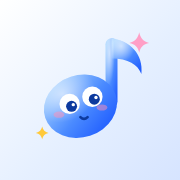
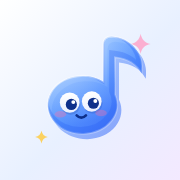
Redraw mascots as light 2.5D glass characters
Translucent gradient bodies with a back depth layer, top glow and a
white glass rim, all in one SVG per character (no image assets). The
note is now a single silhouette, the home group uses smiling faces, and
the app icon matches.

Claude-Session: https://claude.ai/code/session_01NsUf8LjFfeFBEUFhgFzHRm

diff --git a/src/components/Mascots.tsx b/src/components/Mascots.tsx
@@ -7,100 +7,88 @@ import { useId } from "react";
 //  pick   기타 피크 · 노랑 · 쉬움 (신남)
 //  bubble 말풍선 · 보라   · 어려움 (졸림)
 //  heart  하트  · 핑크   · 다시 (뾰로통)
+// 2.5D 유리 질감: 반투명 그라데이션 몸통 + 뒤쪽 두께 + 위쪽 빛 + 흰 테두리. 이미지 파일 없이 SVG 한 장.
 export type MascotKind = "note" | "pick" | "bubble" | "heart";
 
-const PALETTE: Record<MascotKind, { stops: [string, string, string]; ink: string }> = {
-  note: { stops: ["#a8d4ff", "#4b8bff", "#1f5cff"], ink: "#0d3a9e" },
-  pick: { stops: ["#fff0a6", "#ffc93a", "#ffa400"], ink: "#8a4f00" },
-  bubble: { stops: ["#d4c8ff", "#9478ff", "#6a47ff"], ink: "#3a1fa8" },
-  heart: { stops: ["#ffd0e2", "#ff77aa", "#ff3d84"], ink: "#9e1048" },
+const PALETTE: Record<MascotKind, { light: string; mid: string; deep: string; ink: string }> = {
+  note: { light: "#9fd0ff", mid: "#4a8dff", deep: "#2156f5", ink: "#0d2f8a" },
+  pick: { light: "#fff1a3", mid: "#ffcb3d", deep: "#ff9d0a", ink: "#7a4200" },
+  bubble: { light: "#d2c4ff", mid: "#9a7dff", deep: "#6541f5", ink: "#2c1690" },
+  heart: { light: "#ffc8dc", mid: "#ff79ab", deep: "#f23d7e", ink: "#8c0d43" },
 };
 
-const BODY: Record<MascotKind, React.ReactNode> = {
-  note: (
-    <>
-      <rect x="63" y="9" width="10" height="58" rx="5" />
-      <path d="M68 9c15 2 27 13 25 30-3-8-11-13-25-13Z" />
-      <ellipse cx="42" cy="66" rx="31" ry="26" transform="rotate(-18 42 66)" />
-    </>
-  ),
-  pick: <path d="M50 93C42 87 13 54 11 36 9 19 26 9 50 9s41 10 39 27C87 54 58 87 50 93Z" />,
-  bubble: (
-    <path d="M24 14h52c9 0 15 6 15 15v31c0 9-6 15-15 15H46L28 89c-1.5 1-3.5 0-3-2l3-12h-4c-9 0-15-6-15-15V29c0-9 6-15 15-15Z" />
-  ),
-  heart: <path d="M50 88C24 70 8 54 8 35 8 21 19 11 32 11c8 0 14 4 18 10 4-6 10-10 18-10 13 0 24 10 24 24 0 19-16 35-42 53Z" />,
+// 몸통 실루엣 (한 덩어리 path라 테두리·두께를 같은 모양으로 겹칠 수 있다)
+const BODY: Record<MascotKind, string> = {
+  note: "M60 16Q60 9 67 9C83 10 96 23 93 41C89 33 81 28 70 27V59A30 25 0 1 1 60 48Z",
+  pick: "M50 93C42 87 13 54 11 36 9 19 26 9 50 9s41 10 39 27C87 54 58 87 50 93Z",
+  bubble:
+    "M24 14h52c9 0 15 6 15 15v31c0 9-6 15-15 15H46L28 89c-1.5 1-3.5 0-3-2l3-12h-4c-9 0-15-6-15-15V29c0-9 6-15 15-15Z",
+  heart: "M50 88C24 70 8 54 8 35 8 21 19 11 32 11c8 0 14 4 18 10 4-6 10-10 18-10 13 0 24 10 24 24 0 19-16 35-42 53Z",
 };
 
-// 커버처럼 표정 없이 밝게 웃는 얼굴이 필요할 때 쓰는 눈·입 위치
+// 웃는 얼굴(커버용)의 눈·입 자리
 const HAPPY: Record<MascotKind, { eyes: [number, number][]; mouth: [number, number] }> = {
-  note: { eyes: [[33, 64], [52, 58]], mouth: [45, 74] },
+  note: { eyes: [[31, 66], [50, 65]], mouth: [41, 77] },
   pick: { eyes: [[38, 38], [62, 38]], mouth: [50, 55] },
   bubble: { eyes: [[37, 42], [63, 42]], mouth: [50, 57] },
   heart: { eyes: [[37, 43], [63, 43]], mouth: [50, 58] },
 };
 
-function Face({ kind, ink, happy }: { kind: MascotKind; ink: string; happy: boolean }) {
-  const eye = (cx: number, cy: number, r = 8.5) => (
+function Eye({ cx, cy, r = 8.5, ink, id }: { cx: number; cy: number; r?: number; ink: string; id: string }) {
+  return (
     <>
-      <circle cx={cx} cy={cy} r={r} fill="#fff" />
-      <circle cx={cx + 1.6} cy={cy + 2} r={r * 0.54} fill={ink} />
-      <circle cx={cx + 3} cy={cy + 0.6} r={1.4} fill="#fff" />
+      <ellipse cx={cx + 0.8} cy={cy + 1.6} rx={r} ry={r * 1.04} fill={ink} opacity={0.18} />
+      <ellipse cx={cx} cy={cy} rx={r} ry={r * 1.04} fill={`url(#w${id})`} />
+      <circle cx={cx + 1.4} cy={cy + 1.6} r={r * 0.56} fill={ink} />
+      <circle cx={cx + 3.1} cy={cy - 0.4} r={r * 0.2} fill="#fff" />
     </>
   );
-  const blush = (cx: number, cy: number) => (
-    <ellipse cx={cx} cy={cy} rx={4.5} ry={2.6} fill="#ff8fb8" opacity={0.5} />
-  );
-  if (happy) {
+}
+
+function Smile({ x, y, ink, w = 4 }: { x: number; y: number; ink: string; w?: number }) {
+  return <path d={`M${x - w} ${y}q${w} ${w} ${w * 2} 0`} fill="none" stroke={ink} strokeWidth={2.3} strokeLinecap="round" />;
+}
+
+function Blush({ x, y }: { x: number; y: number }) {
+  return <ellipse cx={x} cy={y} rx={5} ry={2.8} fill="#ff6fa5" opacity={0.35} />;
+}
+
+function Face({ kind, happy, id }: { kind: MascotKind; happy: boolean; id: string }) {
+  const { ink } = PALETTE[kind];
+  if (happy || kind === "note") {
     const { eyes, mouth } = HAPPY[kind];
     return (
       <>
         {eyes.map(([x, y]) => (
-          <g key={x}>{eye(x, y)}</g>
+          <Eye key={x} cx={x} cy={y} ink={ink} id={id} />
         ))}
-        <path
-          d={`M${mouth[0] - 4} ${mouth[1]}q4 4 8 0`}
-          fill="none"
-          stroke={ink}
-          strokeWidth={2.4}
-          strokeLinecap="round"
-        />
-        {blush(eyes[0][0] - 8, eyes[0][1] + 10)}
-        {blush(eyes[1][0] + 8, eyes[1][1] + 10)}
+        <Smile x={mouth[0]} y={mouth[1]} ink={ink} />
+        <Blush x={eyes[0][0] - 8} y={eyes[0][1] + 10} />
+        <Blush x={eyes[1][0] + 8} y={eyes[1][1] + 10} />
       </>
     );
   }
   switch (kind) {
-    case "note":
-      return (
-        <>
-          {eye(33, 64)}
-          {eye(52, 58)}
-          <path d="M42 75q3 3 6 0" fill="none" stroke={ink} strokeWidth={2.2} strokeLinecap="round" />
-          {blush(24, 73)}
-          {blush(60, 67)}
-        </>
-      );
     case "pick":
       return (
         <>
-          {eye(38, 39, 9)}
-          <path d="M68 34 57 40l11 6" fill="none" stroke={ink} strokeWidth={3.4} strokeLinecap="round" strokeLinejoin="round" />
-          <ellipse cx={50} cy={57} rx={4.2} ry={3.6} fill="#c35700" />
-          {blush(28, 52)}
-          {blush(72, 52)}
+          <Eye cx={38} cy={38} r={9} ink={ink} id={id} />
+          <path d="M57 41q5-7 10 0" fill="none" stroke={ink} strokeWidth={3} strokeLinecap="round" />
+          <ellipse cx={50} cy={56} rx={4.2} ry={3.6} fill={ink} opacity={0.85} />
+          <Blush x={28} y={51} />
+          <Blush x={72} y={51} />
         </>
       );
     case "bubble":
       return (
         <>
-          {[36, 64].map((cx) => (
+          {[37, 63].map((cx) => (
             <g key={cx}>
-              <circle cx={cx} cy={43} r={10} fill="#fff" />
-              <circle cx={cx + 1} cy={47} r={4.2} fill={ink} />
-              <path d={`M${cx - 10} 43a10 10 0 0 1 20 0Z`} fill="#5b38ea" />
+              <Eye cx={cx} cy={42} r={9.5} ink={ink} id={id} />
+              <path d={`M${cx - 10} 42a10 10 0 0 1 20 0Z`} fill={PALETTE.bubble.deep} opacity={0.92} />
             </g>
           ))}
-          <path d="M43 60q3.5-3 7 0t7 0" fill="none" stroke={ink} strokeWidth={2.2} strokeLinecap="round" />
+          <path d="M43 59q3.5-3 7 0t7 0" fill="none" stroke={ink} strokeWidth={2.2} strokeLinecap="round" />
         </>
       );
     case "heart":
@@ -108,19 +96,22 @@ function Face({ kind, ink, happy }: { kind: MascotKind; ink: string; happy: bool
         <>
           {[28, 54].map((x) => (
             <g key={x}>
-              <path d={`M${x} 42h18a9 9 0 0 1-18 0Z`} fill="#fff" />
-              <circle cx={x + 9.5} cy={45.5} r={3.8} fill={ink} />
+              <path d={`M${x} 41h18a9 9 0 0 1-18 0Z`} fill={`url(#w${id})`} />
+              <circle cx={x + 9.6} cy={44.6} r={3.9} fill={ink} />
+              <circle cx={x + 11} cy={43} r={1.2} fill="#fff" />
             </g>
           ))}
-          <path d="M44 63q6-5 12 0" fill="none" stroke={ink} strokeWidth={2.4} strokeLinecap="round" />
-          {blush(24, 56)}
-          {blush(76, 56)}
+          <path d="M44 63q6-5 12 0" fill="none" stroke={ink} strokeWidth={2.3} strokeLinecap="round" />
+          <Blush x={24} y={56} />
+          <Blush x={76} y={56} />
         </>
       );
+    default:
+      return null;
   }
 }
 
-/** 부드러운 그라데이션 캐릭터 */
+/** 반투명 2.5D 캐릭터 */
 export function Mascot({
   kind,
   className = "size-16",
@@ -134,28 +125,52 @@ export function Mascot({
   happy?: boolean;
 }) {
   const id = useId().replace(/:/g, "");
-  const { stops, ink } = PALETTE[kind];
+  const p = PALETTE[kind];
+  const d = BODY[kind];
   return (
-    <svg
-      viewBox="0 0 100 100"
-      className={className}
-      style={{ filter: "drop-shadow(0 6px 10px rgb(40 60 140 / 0.18))", ...style }}
-      aria-hidden
-    >
+    <svg viewBox="-4 -4 108 112" className={className} style={style} aria-hidden>
       <defs>
-        <linearGradient id={`g${id}`} x1="0.15" y1="0.05" x2="0.85" y2="0.95">
-          <stop offset="0" stopColor={stops[0]} />
-          <stop offset="0.55" stopColor={stops[1]} />
-          <stop offset="1" stopColor={stops[2]} />
+        <linearGradient id={`f${id}`} x1="0.12" y1="0" x2="0.88" y2="1">
+          <stop offset="0" stopColor={p.light} stopOpacity={0.8} />
+          <stop offset="0.55" stopColor={p.mid} stopOpacity={0.86} />
+          <stop offset="1" stopColor={p.deep} stopOpacity={0.76} />
         </linearGradient>
-        <radialGradient id={`h${id}`} cx="0.32" cy="0.22" r="0.45">
-          <stop offset="0" stopColor="#fff" stopOpacity={0.6} />
+        <linearGradient id={`d${id}`} x1="0" y1="0" x2="1" y2="1">
+          <stop offset="0" stopColor={p.mid} stopOpacity={0.35} />
+          <stop offset="1" stopColor={p.deep} stopOpacity={0.55} />
+        </linearGradient>
+        <radialGradient id={`g${id}`} cx="0.3" cy="0.18" r="0.62">
+          <stop offset="0" stopColor="#fff" stopOpacity={0.85} />
+          <stop offset="0.45" stopColor="#fff" stopOpacity={0.2} />
           <stop offset="1" stopColor="#fff" stopOpacity={0} />
         </radialGradient>
+        <linearGradient id={`r${id}`} x1="0" y1="0" x2="1" y2="1">
+          <stop offset="0" stopColor="#fff" stopOpacity={0.9} />
+          <stop offset="0.6" stopColor="#fff" stopOpacity={0.15} />
+          <stop offset="1" stopColor="#fff" stopOpacity={0.45} />
+        </linearGradient>
+        <linearGradient id={`w${id}`} x1="0" y1="0" x2="0" y2="1">
+          <stop offset="0" stopColor="#ffffff" />
+          <stop offset="1" stopColor="#e9efff" />
+        </linearGradient>
+        <clipPath id={`c${id}`}>
+          <path d={d} />
+        </clipPath>
       </defs>
-      <g fill={`url(#g${id})`}>{BODY[kind]}</g>
-      <g fill={`url(#h${id})`}>{BODY[kind]}</g>
-      <Face kind={kind} ink={ink} happy={happy} />
+      {/* 바닥 그림자 */}
+      <ellipse cx="52" cy="101" rx="28" ry="3.5" fill={p.deep} opacity={0.12} />
+      {/* 뒤쪽 두께 */}
+      <path d={d} fill={`url(#d${id})`} transform="translate(3.5 4.5)" />
+      {/* 몸통 */}
+      <path d={d} fill={`url(#f${id})`} />
+      {/* 위쪽 빛과 아래 안쪽 그늘 */}
+      <g clipPath={`url(#c${id})`}>
+        <rect x="-4" y="-4" width="108" height="112" fill={`url(#g${id})`} />
+        <path d={d} fill="none" stroke={p.deep} strokeOpacity={0.25} strokeWidth={6} transform="translate(-2 -3)" />
+      </g>
+      {/* 유리 테두리 */}
+      <path d={d} fill="none" stroke={`url(#r${id})`} strokeWidth={1.6} />
+      <Face kind={kind} happy={happy} id={id} />
     </svg>
   );
 }
@@ -172,7 +187,7 @@ export function Twinkle({
 }) {
   return (
     <svg viewBox="0 0 24 24" className={className} style={style} aria-hidden>
-      <path d="M12 0c1 7 5 11 12 12-7 1-11 5-12 12-1-7-5-11-12-12C7 11 11 7 12 0Z" fill={color} opacity={0.9} />
+      <path d="M12 0c1 7 5 11 12 12-7 1-11 5-12 12-1-7-5-11-12-12C7 11 11 7 12 0Z" fill={color} opacity={0.75} />
     </svg>
   );
 }
@@ -181,16 +196,16 @@ export function Twinkle({
 export function MascotGroup({ className = "w-32" }: { className?: string }) {
   return (
     <div className={`relative aspect-[5/4] ${className}`} aria-hidden>
-      <Mascot kind="pick" className="absolute top-[2%] left-[8%] w-[38%]" style={{ transform: "rotate(-12deg)" }} />
-      <Mascot kind="heart" className="absolute top-0 right-[6%] w-[40%]" style={{ transform: "rotate(10deg)" }} />
+      <Mascot kind="pick" happy className="absolute top-[2%] left-[6%] w-[38%]" style={{ transform: "rotate(-12deg)" }} />
+      <Mascot kind="heart" happy className="absolute top-0 right-[4%] w-[40%]" style={{ transform: "rotate(10deg)" }} />
       <Mascot kind="note" className="absolute bottom-0 left-0 w-[50%]" />
-      <Mascot kind="bubble" className="absolute right-0 bottom-[4%] w-[44%]" style={{ transform: "rotate(-6deg)" }} />
-      <Twinkle color="#ff9fc6" className="absolute top-[38%] left-[46%] w-[12%]" />
+      <Mascot kind="bubble" happy className="absolute right-0 bottom-[4%] w-[44%]" style={{ transform: "rotate(-6deg)" }} />
+      <Twinkle color="#ff9fc6" className="absolute top-[40%] left-[45%] w-[11%]" />
     </div>
   );
 }
 
-export const MASCOT_FOR_SONG: MascotKind[] = ["note", "pick", "bubble", "heart"];
+const MASCOT_FOR_SONG: MascotKind[] = ["note", "pick", "bubble", "heart"];
 
 export function mascotFor(id: string): MascotKind {
   let h = 0;
